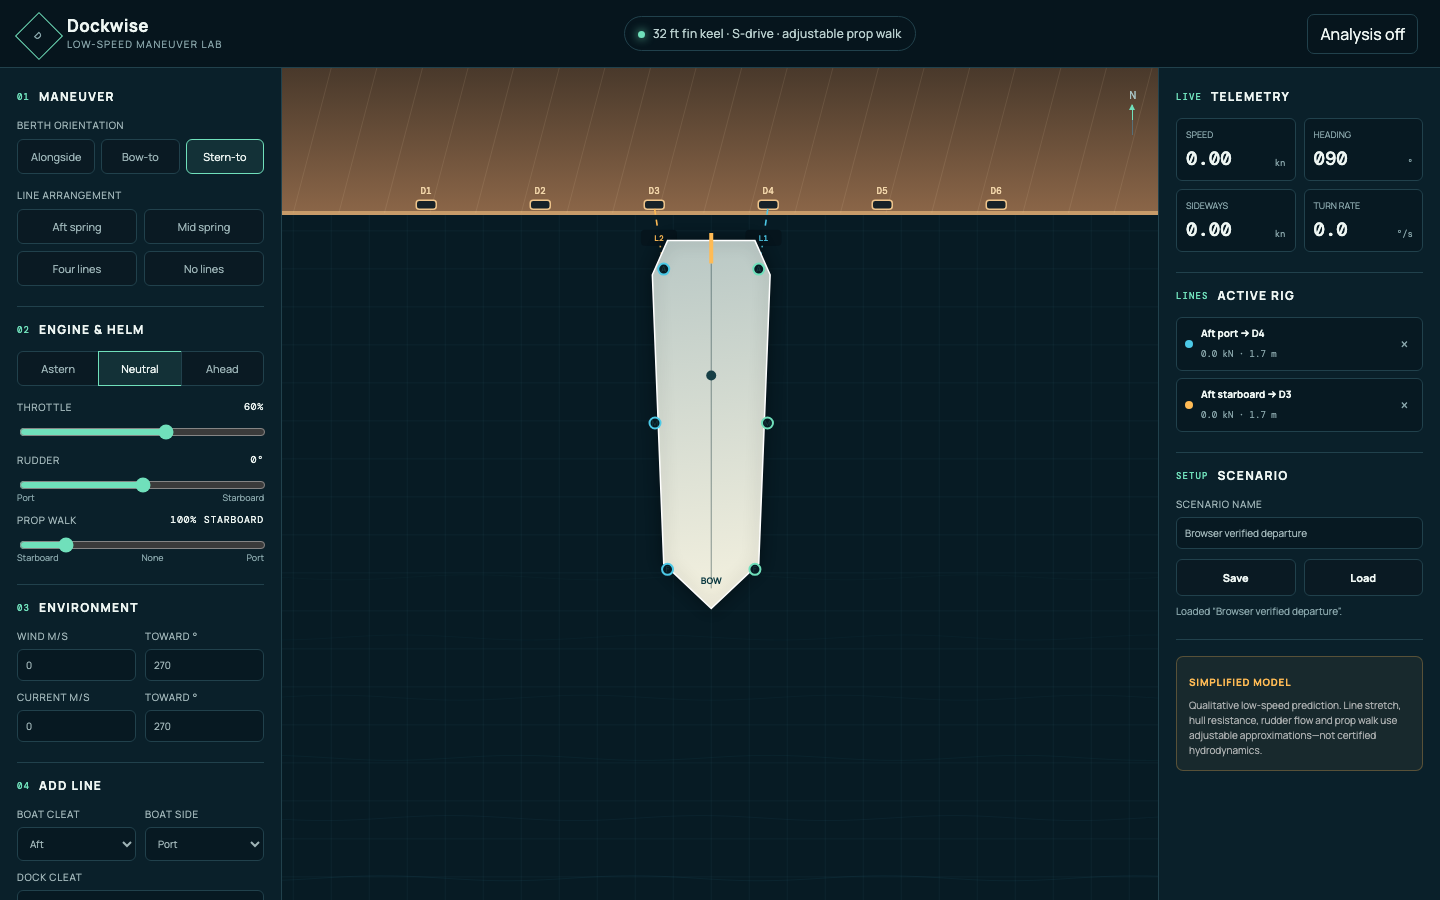
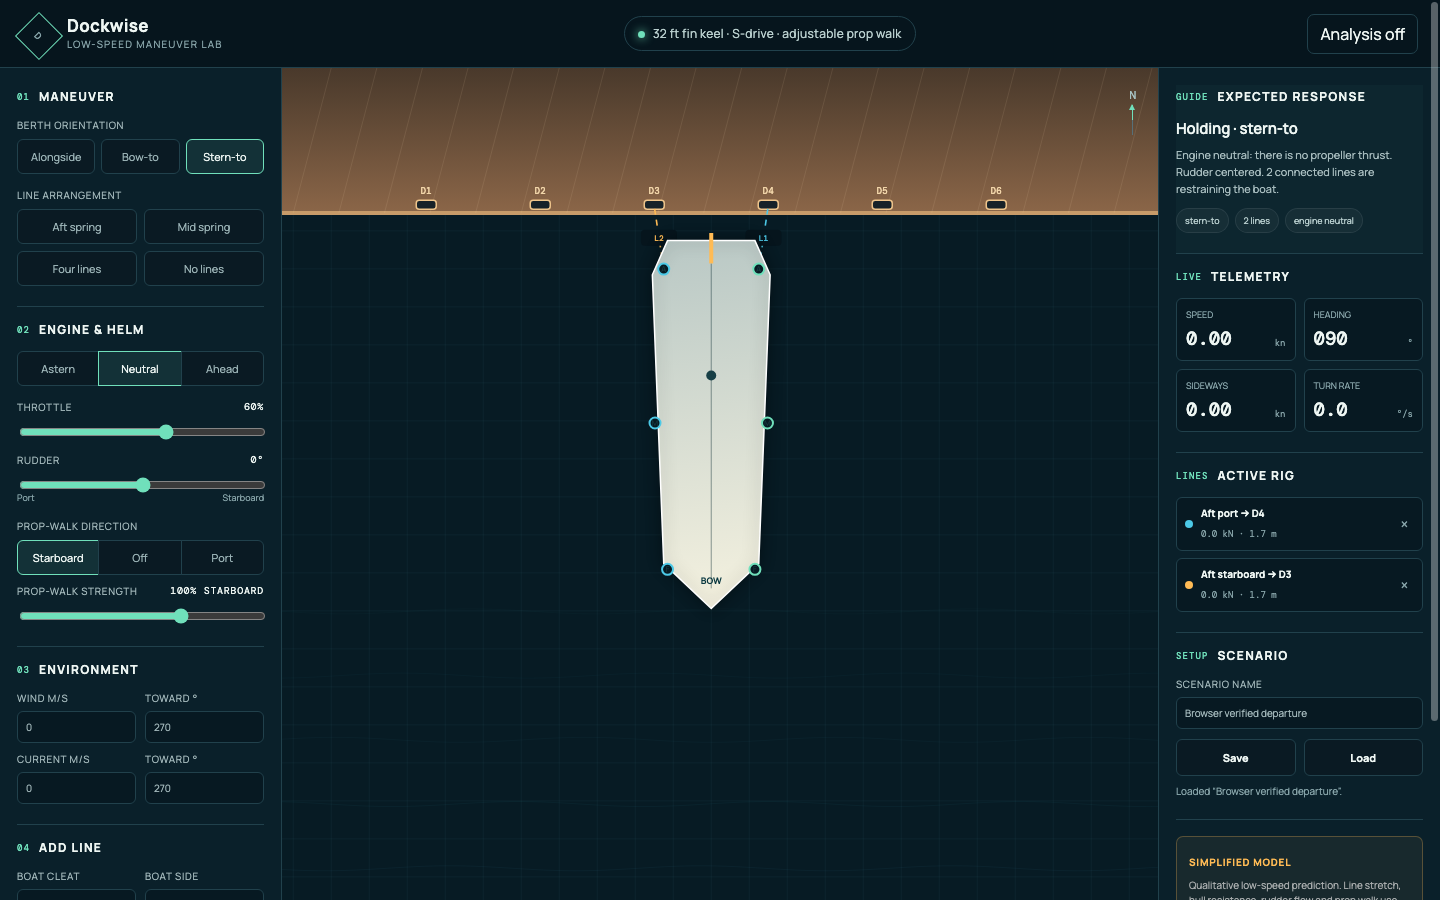
Make Dockwise controls easier to understand

diff --git a/src/app.js b/src/app.js
@@ -26,6 +26,7 @@ let state = createInitialState({ x: 0, y: 0, heading: 0 });
 let lines = [];
 let lineCounter = 0;
 let engine = 0;
+let propWalkDirection = 1;
 let berthMode = 'alongside';
 let running = false;
 let analysis = true;
@@ -54,7 +55,7 @@ function currentControls() {
     engine,
     throttle: Number(controls.throttle.value) / 100,
     rudderDeg: Number(controls.rudder.value),
-    propWalk: Number(controls.propWalk.value) / 100,
+    propWalk: propWalkDirection * Number(controls.propWalk.value) / 100,
     wind: { speed: Number(controls.windSpeed.value), directionDeg: Number(controls.windDirection.value) },
     current: { speed: Number(controls.currentSpeed.value), directionDeg: Number(controls.currentDirection.value) },
     berthMode,
@@ -119,6 +120,19 @@ function setBerthMode(mode) {
 function setEngine(value) {
   engine = Number(value);
   $$('[data-engine]').forEach((button) => button.classList.toggle('active', Number(button.dataset.engine) === engine));
+  updateGuidance();
+}
+
+function setPropWalkDirection(value) {
+  propWalkDirection = Math.max(-1, Math.min(1, Number(value)));
+  $$('[data-prop-walk-direction]').forEach((button) => {
+    const active = Number(button.dataset.propWalkDirection) === propWalkDirection;
+    button.classList.toggle('active', active);
+    button.ariaPressed = String(active);
+  });
+  controls.propWalk.disabled = propWalkDirection === 0;
+  updateRangeOutputs();
+  updateGuidance();
 }
 
 function applyPreset(name) {
@@ -147,10 +161,56 @@ function updateRangeOutputs() {
   const rudder = Number(controls.rudder.value);
   $('#rudderValue').textContent = `${rudder > 0 ? '+' : ''}${rudder}°`;
   const propWalk = Number(controls.propWalk.value);
-  $('#propWalkValue').textContent = propWalk === 0
-    ? 'None'
-    : `${Math.abs(propWalk)}% ${propWalk > 0 ? 'port' : 'starboard'}`;
+  $('#propWalkValue').textContent = propWalkDirection === 0
+    ? 'Off'
+    : `${propWalk}% ${propWalkDirection > 0 ? 'port' : 'starboard'}`;
   $('#lineSlackValue').textContent = `${$('#lineSlack').value}%`;
+}
+
+function updateGuidance() {
+  const throttle = Number(controls.throttle.value);
+  const rudder = Number(controls.rudder.value);
+  const wind = Number(controls.windSpeed.value);
+  const current = Number(controls.currentSpeed.value);
+  const modeName = { alongside: 'alongside', 'bow-to': 'bow-to', 'stern-to': 'stern-to' }[berthMode];
+  const motion = engine > 0 ? 'Ahead' : engine < 0 ? 'Astern' : 'Holding';
+  $('#motionTitle').textContent = `${motion} · ${modeName}`;
+
+  const sentences = [];
+  if (engine === 0) {
+    sentences.push('Engine neutral: there is no propeller thrust.');
+  } else if (engine > 0) {
+    sentences.push(`Ahead at ${throttle}% pushes the boat forward.`);
+  } else {
+    sentences.push(`Astern at ${throttle}% pulls the boat backward.`);
+    if (propWalkDirection === 0 || Number(controls.propWalk.value) === 0) {
+      sentences.push('Prop walk is off.');
+    } else {
+      sentences.push(`Prop walk adds a ${propWalkDirection > 0 ? 'port' : 'starboard'} sideways push.`);
+    }
+  }
+  if (Math.abs(rudder) < 1) {
+    sentences.push('Rudder centered.');
+  } else {
+    sentences.push(`Rudder ${Math.abs(rudder)}° to ${rudder > 0 ? 'starboard' : 'port'}; its effect grows with boat speed and propeller wash.`);
+  }
+  if (lines.length) sentences.push(`${lines.length} connected ${lines.length === 1 ? 'line is' : 'lines are'} restraining the boat.`);
+  else sentences.push('No lines are connected; the boat is free to move.');
+  $('#motionSummary').textContent = sentences.join(' ');
+
+  const facts = [
+    modeName,
+    `${lines.length} ${lines.length === 1 ? 'line' : 'lines'}`,
+    engine === 0 ? 'engine neutral' : `${throttle}% ${engine > 0 ? 'ahead' : 'astern'}`,
+  ];
+  if (wind > 0) facts.push(`wind ${wind} m/s`);
+  if (current > 0) facts.push(`current ${current} m/s`);
+  const factNodes = facts.map((fact) => {
+    const chip = document.createElement('span');
+    chip.textContent = fact;
+    return chip;
+  });
+  $('#motionFacts').replaceChildren(...factNodes);
 }
 
 function formatTime(seconds) {
@@ -178,6 +238,7 @@ function updateOutputs() {
     warning.hidden = true;
   }
   renderLineList();
+  updateGuidance();
 }
 
 function renderLineList() {
@@ -204,7 +265,7 @@ function renderLineList() {
     detail.textContent = `${tension} · ${line.restLength.toFixed(1)} m`;
     text.append(title, detail);
     const remove = document.createElement('button'); remove.type = 'button'; remove.ariaLabel = `Release ${line.id}`; remove.textContent = '×';
-    remove.addEventListener('click', () => { lines = lines.filter((entry) => entry.id !== line.id); renderLineList(); });
+    remove.addEventListener('click', () => { lines = lines.filter((entry) => entry.id !== line.id); renderLineList(); updateGuidance(); });
     item.append(dot, text, remove);
     return item;
   }));
@@ -377,14 +438,16 @@ function tick(now) {
 }
 
 $$('[data-engine]').forEach((button) => button.addEventListener('click', () => setEngine(button.dataset.engine)));
+$$('[data-prop-walk-direction]').forEach((button) => button.addEventListener('click', () => setPropWalkDirection(button.dataset.propWalkDirection)));
 $$('[data-berth]').forEach((button) => button.addEventListener('click', () => setBerthMode(button.dataset.berth)));
 $$('[data-preset]').forEach((button) => button.addEventListener('click', () => applyPreset(button.dataset.preset)));
-Object.values(controls).forEach((element) => element.addEventListener('input', updateRangeOutputs));
+Object.values(controls).forEach((element) => element.addEventListener('input', () => { updateRangeOutputs(); updateGuidance(); }));
 $('#lineSlack').addEventListener('input', updateRangeOutputs);
 $('#addLine').addEventListener('click', () => {
   lines.push(makeLine($('#boatCleat').value, $('#dockCleat').value, Number($('#lineSlack').value), $('#boatSide').value));
   $$('.preset').forEach((button) => button.classList.remove('active'));
   renderLineList();
+  updateGuidance();
 });
 $('#playPause').addEventListener('click', () => {
   running = !running;
@@ -416,7 +479,10 @@ $('#loadScenario').addEventListener('click', () => {
     setEngine(c.engine || 0);
     if (Number.isFinite(c.throttle)) controls.throttle.value = c.throttle * 100;
     if (Number.isFinite(c.rudderDeg)) controls.rudder.value = c.rudderDeg;
-    if (Number.isFinite(c.propWalk)) controls.propWalk.value = c.propWalk * 100;
+    if (Number.isFinite(c.propWalk)) {
+      controls.propWalk.value = Math.abs(c.propWalk) * 100;
+      setPropWalkDirection(Math.sign(c.propWalk));
+    }
     if (c.wind) { controls.windSpeed.value = c.wind.speed; controls.windDirection.value = c.wind.directionDeg; }
     if (c.current) { controls.currentSpeed.value = c.current.speed; controls.currentDirection.value = c.current.directionDeg; }
     $('#scenarioName').value = scenario.name || 'Loaded departure';
@@ -449,6 +515,7 @@ window.__dockwise = {
   getBerthMode: () => berthMode,
   setBerthMode,
   setEngine,
+  setPropWalkDirection,
   applyPreset,
   step: (seconds = 0.05) => { state = stepSimulation(state, currentControls(), seconds); updateOutputs(); return clone(state); },
 };

diff --git a/styles.css b/styles.css
@@ -37,6 +37,9 @@ h2 { font-size:12px; margin:0; text-transform:uppercase; letter-spacing:.11em; }
 .segmented button { border-radius:0; margin-left:-1px; }
 .segmented button:first-child { border-radius:6px 0 0 6px; margin-left:0; }
 .segmented button:last-child { border-radius:0 6px 6px 0; }
+.prop-walk-caption { margin-top:15px; }
+.prop-walk-direction { margin-bottom:4px; }
+input[type=range]:disabled { opacity:.35; cursor:not-allowed; }
 label { display:flex; flex-direction:column; gap:6px; color:#9fb4b7; font-size:10px; text-transform:uppercase; letter-spacing:.07em; }
 input[type=number], input[type=text], select { width:100%; min-width:0; background:#071922; border:1px solid var(--line); border-radius:6px; padding:8px; outline:none; }
 input:focus, select:focus { border-color:var(--mint); }
@@ -73,6 +76,11 @@ canvas { position:absolute; inset:0; width:100%; height:100%; display:block; }
 .telemetry-grid span { grid-column:1/-1; color:var(--muted); font-size:9px; text-transform:uppercase; }
 .telemetry-grid strong { font:500 19px 'DM Mono'; margin-top:5px; }
 .telemetry-grid small { color:var(--muted); font:9px 'DM Mono'; padding-bottom:2px; }
+.guidance-card { background:rgba(112,224,187,.035); }
+.guidance-card > strong { display:block; color:var(--text); font-size:15px; font-weight:600; letter-spacing:-.01em; }
+.guidance-card > p { color:#a9bec0; font-size:11px; line-height:1.55; margin:7px 0 11px; }
+.motion-facts { display:flex; flex-wrap:wrap; gap:6px; }
+.motion-facts span { color:#b8cece; background:rgba(255,255,255,.035); border:1px solid rgba(255,255,255,.08); border-radius:99px; padding:5px 8px; font-size:9px; }
 .line-list { display:flex; flex-direction:column; gap:7px; min-height:38px; }
 .line-item { display:grid; grid-template-columns:8px 1fr auto; gap:8px; align-items:center; padding:8px; background:#071922; border:1px solid var(--line); border-radius:6px; }
 .line-item i { width:8px; height:8px; border-radius:50%; background:var(--cyan); }
@@ -87,4 +95,4 @@ canvas { position:absolute; inset:0; width:100%; height:100%; display:block; }
 .assumption-card p { color:#a8acad; font-size:10px; line-height:1.5; margin:7px 0 0; }
 
 @media (max-width:1050px) { .app-shell { grid-template-columns:250px minmax(430px,1fr); } .analysis-panel { grid-column:1/-1; border-left:0; border-top:1px solid var(--line); display:grid; grid-template-columns:1fr 1.2fr 1fr 1fr; gap:18px; } .analysis-panel section { border:0; } }
-@media (max-width:760px) { .topbar { height:auto; min-height:62px; flex-wrap:wrap; padding:10px 14px; } .model-pill { display:none; } .ghost-button { margin-left:auto; } .app-shell { display:flex; flex-direction:column; } .sim-area { order:1; } .controls-panel { order:2; border-right:0; border-top:1px solid var(--line); } .analysis-panel { order:3; display:block; } .canvas-wrap { min-height:460px; } .panel { overflow:visible; } .transport { position:sticky; bottom:0; z-index:5; } .canvas-hint { max-width:220px; } }
+@media (max-width:760px) { .topbar { height:auto; min-height:62px; flex-wrap:wrap; padding:10px 14px; } .model-pill { display:none; } .ghost-button { margin-left:auto; } .app-shell { display:flex; flex-direction:column; } .sim-area { order:1; } .controls-panel { order:2; border-right:0; border-top:1px solid var(--line); } .analysis-panel { order:3; display:block; } .canvas-wrap { min-height:460px; } .panel { overflow:visible; } .transport { position:sticky; bottom:0; z-index:5; } .canvas-hint { max-width:220px; } .preset, .berth-button, .segmented button { min-height:44px; font-size:12px; } }

diff --git a/index.html b/index.html
@@ -46,8 +46,13 @@
         <label class="range-row" for="throttle"><span>Throttle <output id="throttleValue">45%</output></span><input id="throttle" type="range" min="0" max="100" value="45"></label>
         <label class="range-row" for="rudder"><span>Rudder <output id="rudderValue">0°</output></span><input id="rudder" type="range" min="-35" max="35" value="0"></label>
         <div class="direction-labels"><span>Port</span><span>Starboard</span></div>
-        <label class="range-row compact" for="propWalk"><span>Prop walk <output id="propWalkValue">65% port</output></span><input id="propWalk" type="range" min="-150" max="150" value="65"></label>
-        <div class="direction-labels prop-walk-labels"><span>Starboard</span><span>None</span><span>Port</span></div>
+        <label class="control-caption prop-walk-caption">Prop-walk direction</label>
+        <div class="segmented prop-walk-direction" role="group" aria-label="Prop-walk direction">
+          <button type="button" data-prop-walk-direction="-1" aria-pressed="false">Starboard</button>
+          <button type="button" data-prop-walk-direction="0" aria-pressed="false">Off</button>
+          <button type="button" data-prop-walk-direction="1" class="active" aria-pressed="true">Port</button>
+        </div>
+        <label class="range-row compact" for="propWalk"><span>Prop-walk strength <output id="propWalkValue">65%</output></span><input id="propWalk" type="range" min="0" max="150" value="65"></label>
       </section>
 
       <section>
@@ -90,6 +95,13 @@
     </section>
 
     <aside class="panel analysis-panel" aria-label="Telemetry and active lines">
+      <section class="guidance-card" aria-live="polite">
+        <div class="section-heading"><span>Guide</span><h2>Expected response</h2></div>
+        <strong id="motionTitle">Holding alongside</strong>
+        <p id="motionSummary">Neutral engine. The connected line restrains the boat.</p>
+        <div id="motionFacts" class="motion-facts"></div>
+      </section>
+
       <section>
         <div class="section-heading"><span>Live</span><h2>Telemetry</h2></div>
         <div class="telemetry-grid">

diff --git a/README.md b/README.md
@@ -19,7 +19,7 @@ Open [http://127.0.0.1:4173](http://127.0.0.1:4173).
 
 1. Choose **Alongside**, **Bow-to**, or **Stern-to**. End-on modes start perpendicular to the quay with mirrored port/starboard line pairs.
 2. Select a line preset or connect your own lines between the aft, middle, or forward boat cleat, its port/starboard side, and dock cleats D1–D6.
-3. Select **Astern**, **Neutral**, or **Ahead**, then set throttle and rudder. Set **Prop walk** toward port or starboard, or center it at **None**; the 65% port setting matches the default boat profile.
+3. Select **Astern**, **Neutral**, or **Ahead**, then set throttle and rudder. Choose **Port**, **Off**, or **Starboard** for prop-walk direction and adjust its strength separately; 65% port matches the default boat profile.
 4. Optionally set wind/current speed and the direction each vector moves **toward**.
 5. Press **Run**, **Pause**, **Step**, or **Reset** and watch the boat, force vectors, line tensions, telemetry, and warnings.
 6. Release a line with its × button or save/load the full scenario locally.

diff --git a/docs/acceptance.md b/docs/acceptance.md
@@ -45,6 +45,10 @@ Verified:
 - astern command moves the boat backward
 - port prop walk moves the boat toward local port in reverse
 - starboard prop walk reverses the lateral motion and displays the selected direction
+- separate Port/Off/Starboard choices make prop-walk direction explicit
+- Off disables the prop-walk strength control
+- plain-language guidance explains engine, rudder, prop-walk, and connected-line effects
+- mobile direction choices meet a 44 px touch-target height
 - ahead command advances the boat
 - run/pause advances and stops simulation time
 - scenario save/load restores four lines and its name
